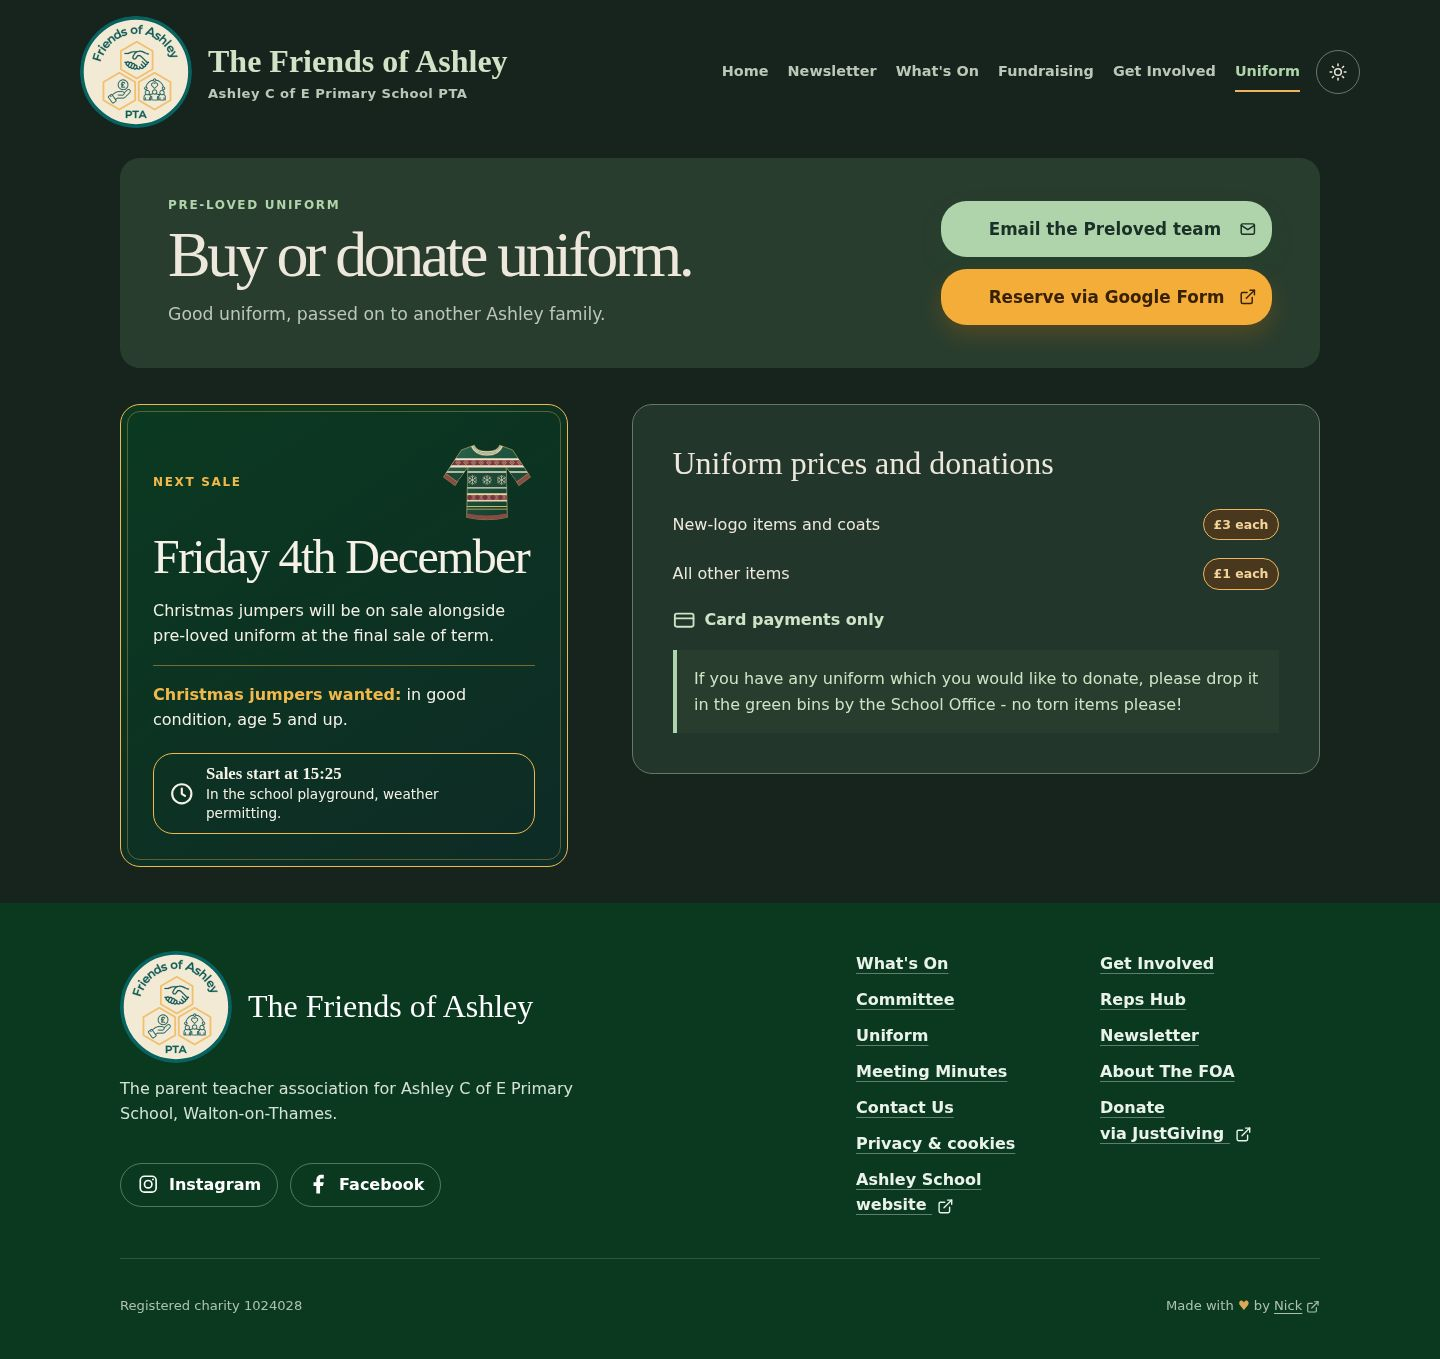
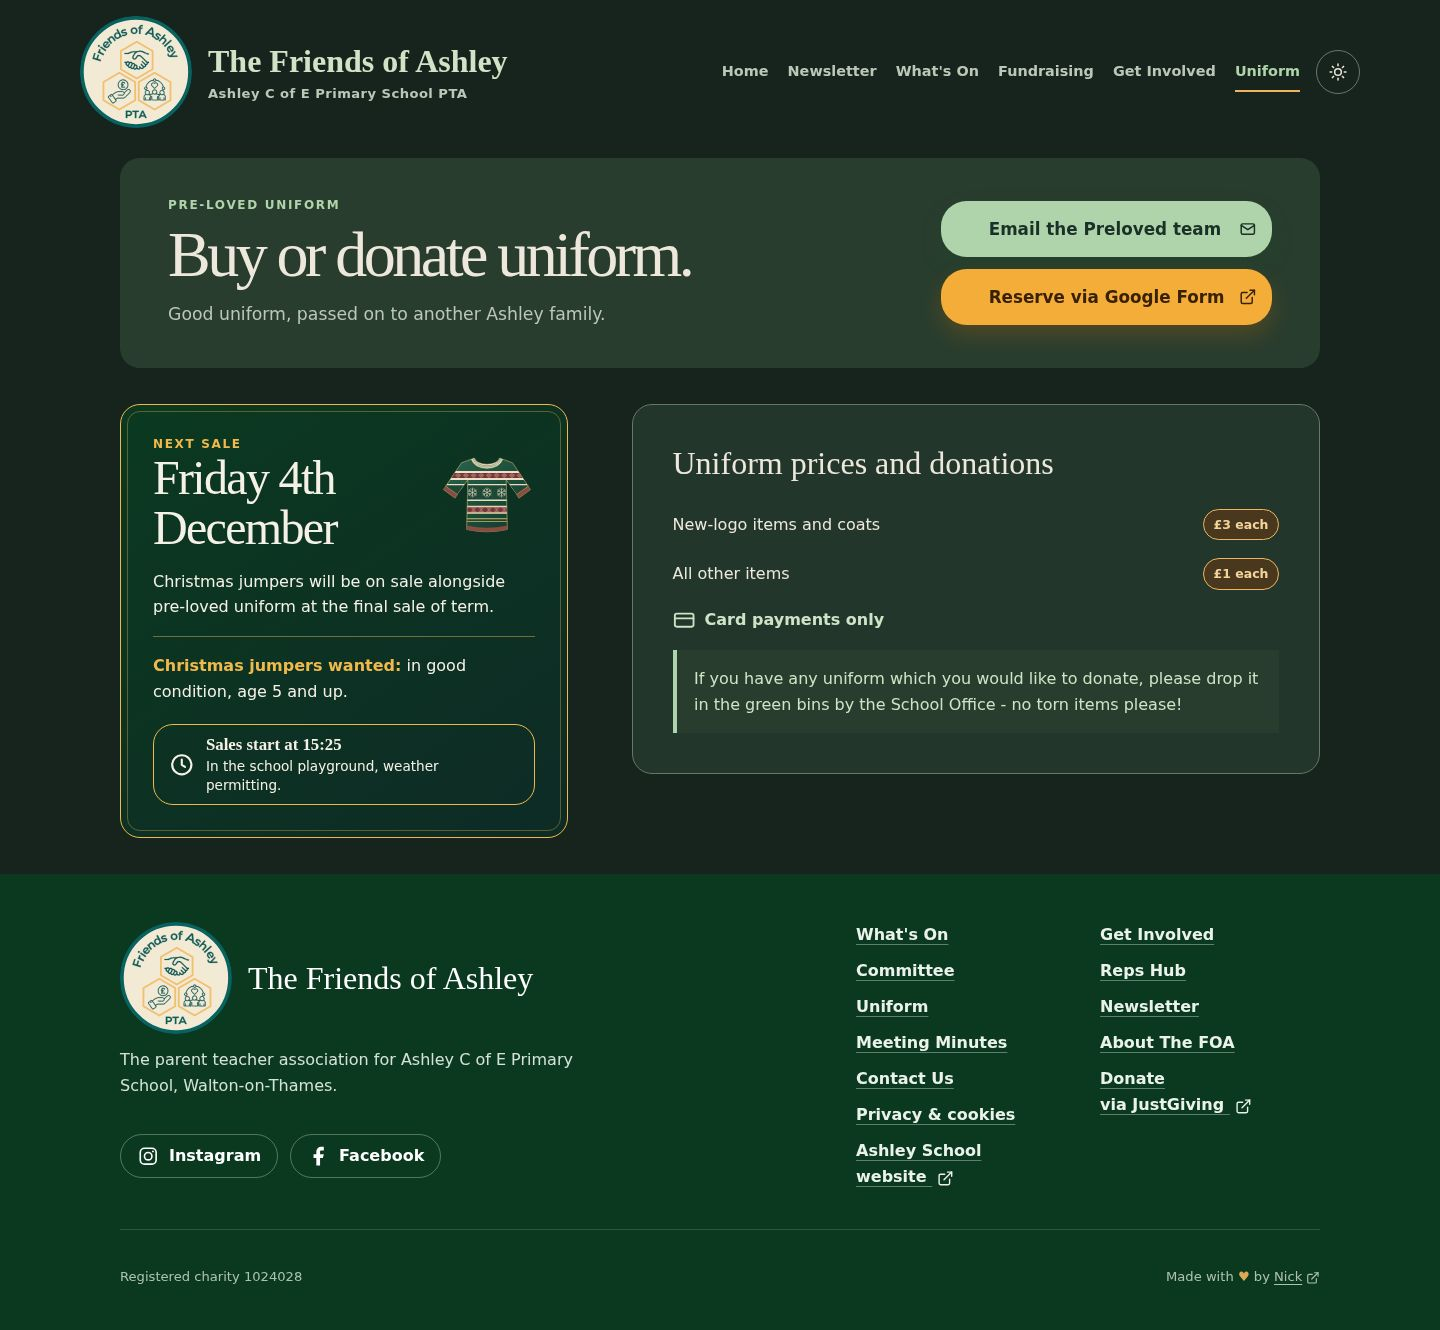
[CF-Pages-Skip] Tighten sale heading beside jumper on mobile

diff --git a/tests/e2e/uniform-sale-layout.spec.ts b/tests/e2e/uniform-sale-layout.spec.ts
@@ -1,0 +1,20 @@
+import { expect, test } from '@playwright/test';
+for (const width of [320, 390, 768, 1440]) {
+  for (const scale of [1, 2]) {
+    test(`sale heading fills the space beside the jumper at ${width}px text ${scale}`, async ({ page }) => {
+      await page.setViewportSize({ width, height: 1000 });
+      await page.goto('/uniform/');
+      await page.evaluate(scale => document.documentElement.style.fontSize = `${16 * scale}px`, scale);
+      await page.evaluate(() => document.fonts.ready);
+      const label = await page.locator('.christmas-sale-top .eyebrow').boundingBox();
+      const date = await page.locator('.christmas-sale-top h2').boundingBox();
+      const jumper = await page.locator('.christmas-knit').boundingBox();
+      expect(label).not.toBeNull(); expect(date).not.toBeNull(); expect(jumper).not.toBeNull();
+      expect(date!.y - (label!.y + label!.height)).toBeLessThan(16);
+      expect(date!.x + date!.width).toBeLessThanOrEqual(jumper!.x);
+      expect(jumper!.y).toBeLessThan(date!.y + date!.height);
+      expect(jumper!.y + jumper!.height).toBeGreaterThan(label!.y);
+      expect(await page.evaluate(() => document.documentElement.scrollWidth <= innerWidth)).toBe(true);
+    });
+  }
+}
